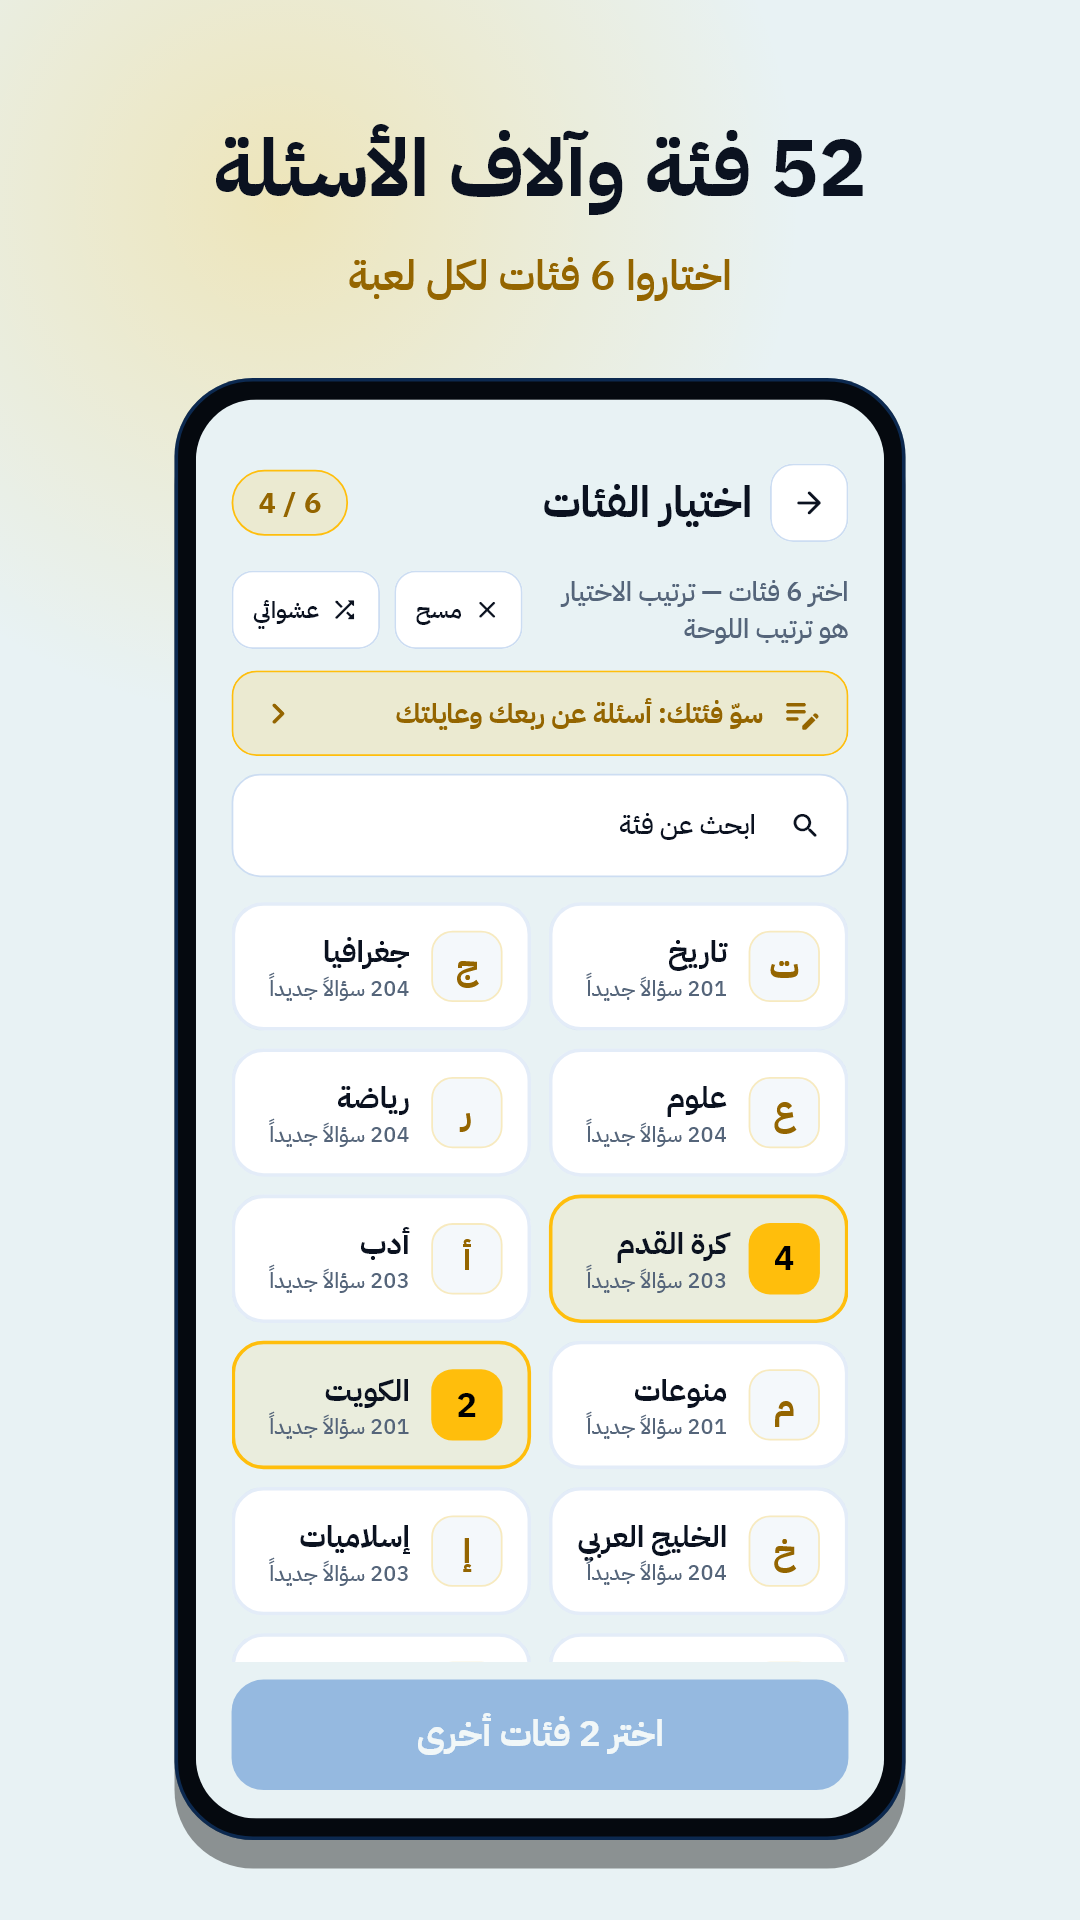
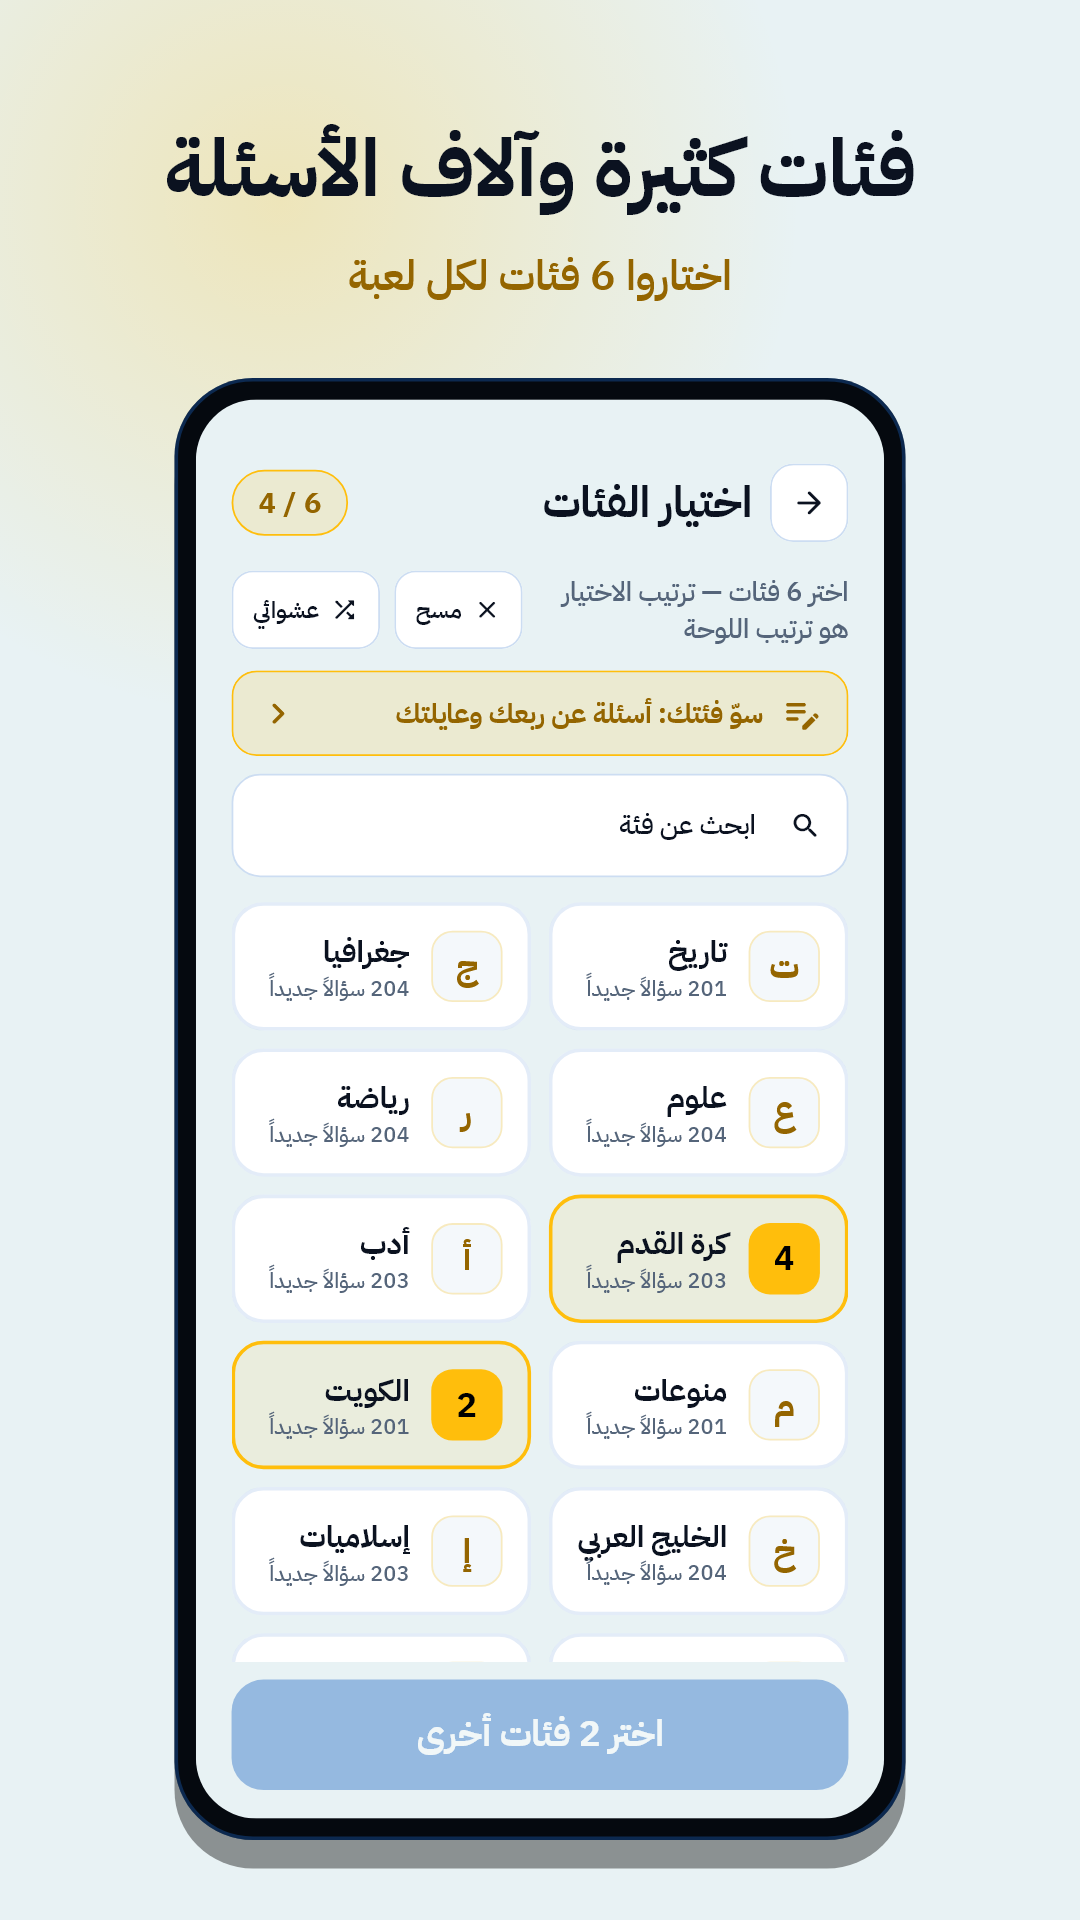
Home page and screenshot: no category count

Changed region(s): [[0.1528, 0.0625, 0.8556, 0.125]]

diff --git a/home.html b/home.html
@@ -4,7 +4,7 @@
 <meta charset="utf-8">
 <meta name="viewport" content="width=device-width, initial-scale=1">
 <title>استفهام — لعبة أسئلة للديوانيات واليمعات</title>
-<meta name="description" content="استفهام: لعبة أسئلة جماعية بين فريقين للديوانيات واليمعات، وتحدٍّ أونلاين بين جوالين. 52 فئة وآلاف الأسئلة، والنتيجة على شاشة التلفزيون.">
+<meta name="description" content="استفهام: لعبة أسئلة جماعية بين فريقين للديوانيات واليمعات، وتحدٍّ أونلاين بين جوالين. فئات كثيرة وآلاف الأسئلة، والنتيجة على شاشة التلفزيون.">
 <link rel="icon" href="icon.png">
 <style>
   :root { --bg: #E8F2F4; --surface: #FFFFFF; --cream: #0B1220; --muted: #55657A; --gold: #1963C2; --border: rgba(25,99,194,.18); }
@@ -60,7 +60,7 @@
     <img src="icon.png" alt="أيقونة استفهام">
     <h1>استفهام</h1>
     <p class="tagline">لعبة أسئلة بين فريقين للديوانيات واليمعات</p>
-    <p class="lead">واحد يمسك الجوال ويقدّم، والفريقان يتنافسون على النقاط، والنتيجة تظهر على شاشة التلفزيون. 52 فئة وآلاف الأسئلة، وأول لعبة مجاناً.</p>
+    <p class="lead">واحد يمسك الجوال ويقدّم، والفريقان يتنافسون على النقاط، والنتيجة تظهر على شاشة التلفزيون. فئات كثيرة وآلاف الأسئلة، وأول لعبة مجاناً.</p>
   </section>
 
   <h2 id="shots">صور اللعبة</h2>
@@ -77,7 +77,7 @@
   <h2 id="play">طريقة اللعب</h2>
   <ol class="steps">
     <li>سمّوا الفريقين، واختاروا من يبدأ.</li>
-    <li>اختاروا 6 فئات من بين 52 فئة.</li>
+    <li>اختاروا 6 فئات.</li>
     <li>تظهر لوحة من 36 سؤالاً: سؤالين 200 وسؤالين 400 وسؤالين 600 لكل فئة، والأصعب بنقاط أكثر.</li>
     <li>الفريق صاحب الدور يختار سؤالاً، ويجاوب قبل انتهاء الوقت.</li>
     <li>المقدّم يكشف الإجابة ويحدد من جاوب صح بضغطة، وتنتقل النقاط.</li>
@@ -99,7 +99,7 @@
 
   <h2 id="features">المميزات</h2>
   <div class="grid">
-    <div class="card"><h3>52 فئة</h3><p>الكويت، لهجة كويتية، أهل البحر، أهل البر، الخليج، كأس الخليج، الدوري الكويتي، مسلسلات خليجية، معالم العالم، أعلام الدول، خرايط، كرة القدم، كأس العالم، العلوم، التاريخ، السيرة النبوية، أمثال وحكم، أكلات، كرتون زمان، ألغاز، وغيرها.</p></div>
+    <div class="card"><h3>فئات كثيرة</h3><p>الكويت، لهجة كويتية، أهل البحر، أهل البر، الخليج، كأس الخليج، الدوري الكويتي، مسلسلات خليجية، معالم العالم، أعلام الدول، خرايط، كرة القدم، كأس العالم، العلوم، التاريخ، السيرة النبوية، أمثال وحكم، أكلات، كرتون زمان، ألغاز، وغيرها.</p></div>
     <div class="card"><h3>صور و«دندنها»</h3><p>أسئلة بالصور، وأسئلة «دندنها»: واحد من الفريق يدندن الأغنية بدون كلام، والباقي يخمّنون.</p></div>
     <div class="card"><h3>وسائل مساعدة</h3><p>«دبل» يضاعف النقاط، و«إجابتان» تعطي فرصتين، و«استريح» يريّح لاعباً من الفريق الخصم، و«بوق السؤال» ياخذ سؤال الخصم.</p></div>
     <div class="card"><h3>على التلفزيون</h3><p>اعرضوا اللوحة والأسئلة والنتيجة عبر Chromecast أو متصفح التلفزيون، والجوال يبقى بيد المقدّم.</p></div>
